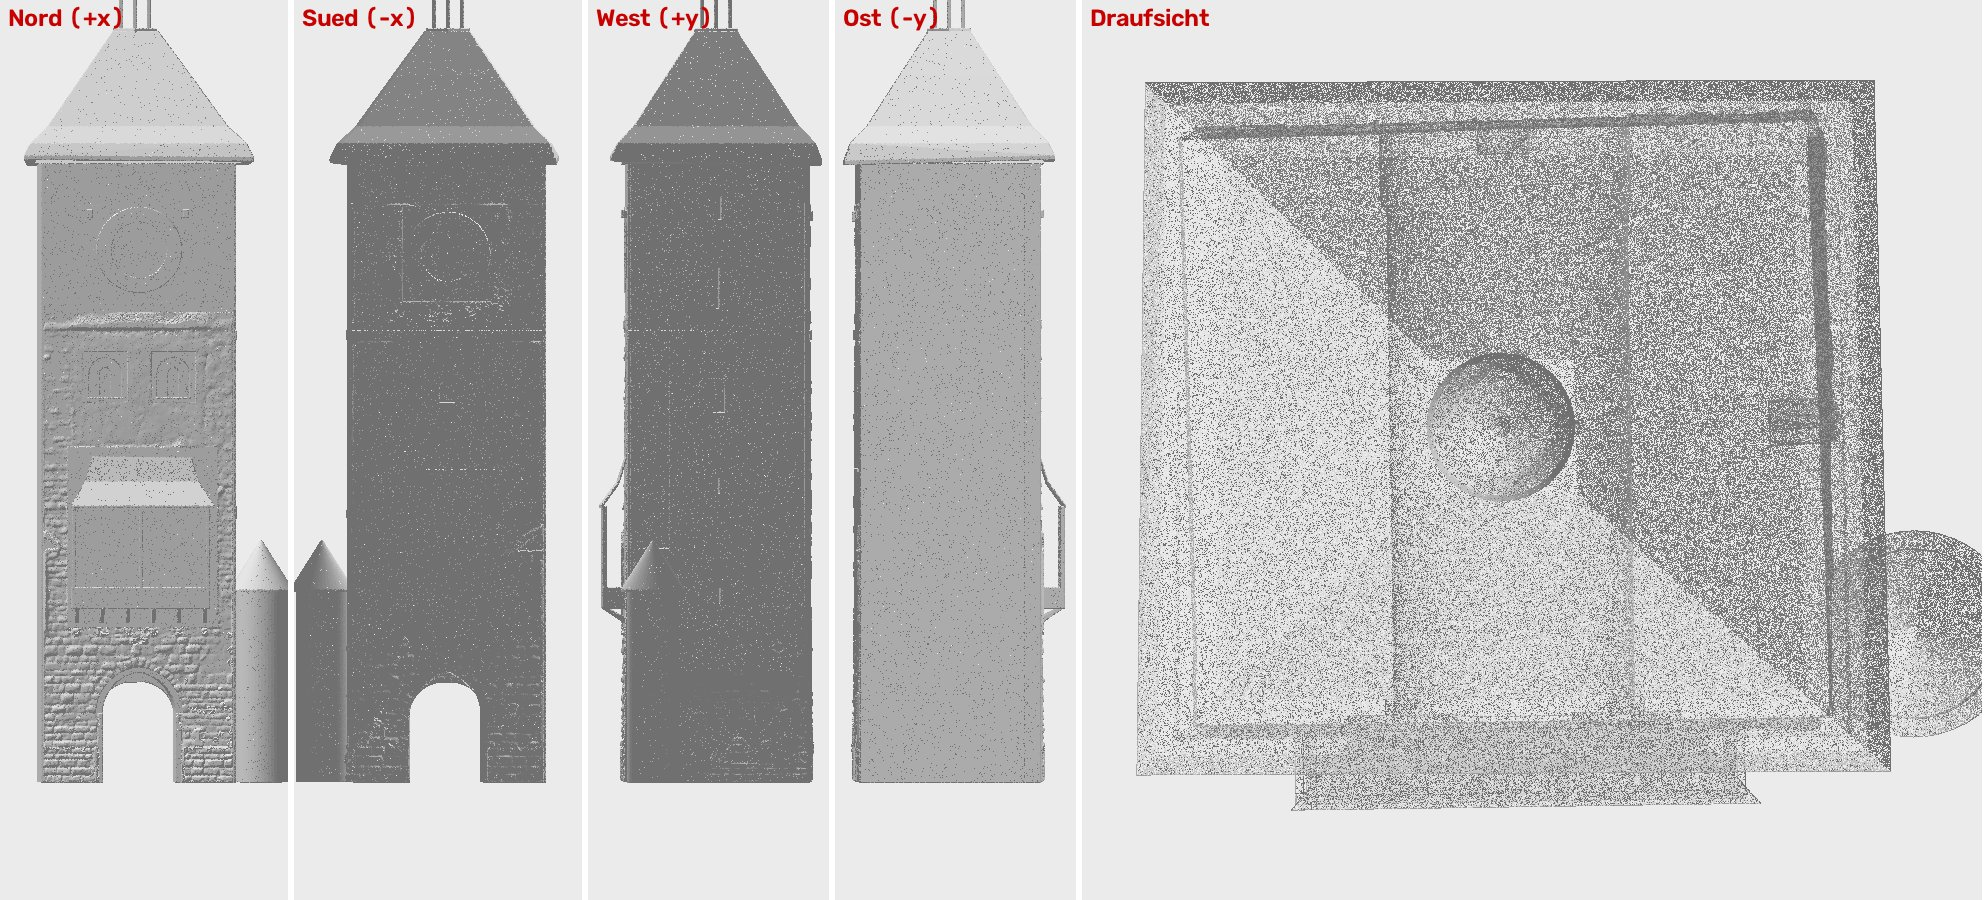
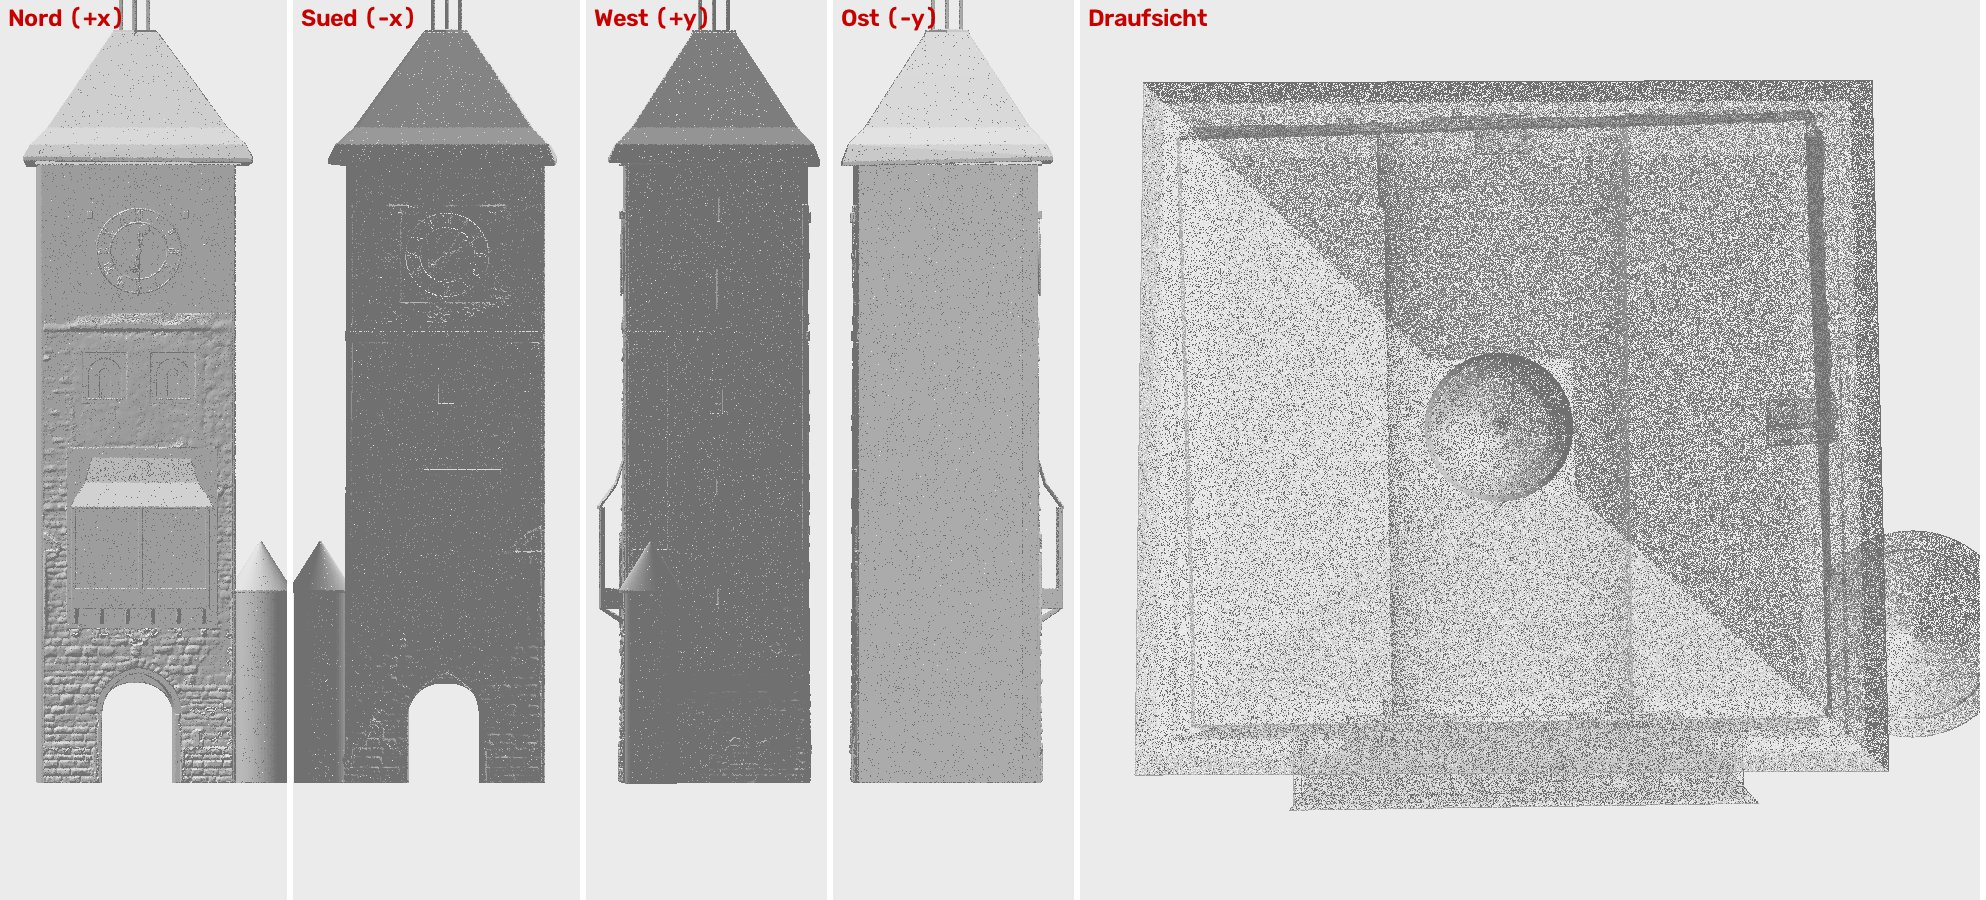
schwab_v3: Uhren Nord/Sued mit Wulsten, roemischen Ziffern und Zeigern (bauteile.Wand.zifferblatt); modell_neben_foto mit Dreiecks-Raster
Claude-Session: https://claude.ai/code/session_01BMC5F7JqzthTsrTAV2gKLz

diff --git a/tools/bauteile.py b/tools/bauteile.py
@@ -50,6 +50,34 @@ class Wand:
         for t_ in teiler: zus = zus + K_(t_ - b / 2, t_ + b / 2, z0 - e, z1 + e, v0, v1)
         if kaempfer: zus = zus + K_(u0 - e, u1 + e, kaempfer - b / 2, kaempfer + b / 2, v0, v1)
         return K_(u0, u1, z0, z1, w - tiefe, w + 0.02), zus
+    def stab(self, p, q, b, w0, w1):
+        """Gerader Stab von p = (u, z) nach q = (u, z), Breite b, von w0 bis w1 vor der Wand (Zeiger, Ziffernstriche, Leisten)."""
+        p = np.array(p, float); q = np.array(q, float); d = q - p; d = d / np.linalg.norm(d); s = np.array([-d[1], d[0]]) * b / 2
+        return self.huelle([(c[0], c[1], w_) for c in (p + s, p - s, q + s, q - s) for w_ in (w0, w1)])
+    def zifferblatt(self, u, z, d_aussen, d_innen, zeit=(2, 5), k=1.0, w_ring=0.10, w_feld=0.06):
+        """Turmuhr-Details AUF einer vorhandenen Ringscheibe (Ring bis w_ring, Innenfeld bis w_feld vor der Wand): Wulst aussen und innen, 12 roemische Ziffern
+        (radial, Fuss zur Mitte, IIII statt IV wie an Turmuhren ueblich), Nabe, Stundenzeiger mit Sonne und Mondsichel am Gegenende, Minutenzeiger mit Pfeil.
+        Masse relativ zum Durchmesser (Ablesung Schwabentor Sued, entzerrtes Foto commons 127); k = Laengenfaktor fuer Tiefen/Breiten (Rohrahmen). Zeit = ANNAHME."""
+        ra, ri = d_aussen / 2, d_innen / 2; sr = 1.0 if self.t @ np.array([-self.n[1], self.n[0]]) > 0 else -1.0; S = self.scheibe; e = 0.01 * k
+        def P(r, phi, dx=0.0, dy=0.0):                                     # Uhrwinkel phi im Uhrzeigersinn ab 12; dx entlang des Uhrzeigersinns, dy nach aussen
+            return (u + sr * (r * np.sin(phi) + dx * np.cos(phi) + dy * np.sin(phi)), z + r * np.cos(phi) - dx * np.sin(phi) + dy * np.cos(phi))
+        t = (S(u, z, d_aussen, w_ring - e, w_ring + 0.04 * k) - S(u, z, d_aussen - 0.14 * k, w_ring - 2 * e, w_ring + 0.1 * k)) + (S(u, z, d_innen + 0.13 * k, w_feld - e, w_ring + 0.04 * k) - S(u, z, d_innen, w_feld - 2 * e, w_ring + 0.1 * k))
+        rm = (ri + ra) / 2; h = 0.70 * (ra - ri) ; b = 0.075 * k; a_ = 0.13 * h / 0.63; w0, w1 = w_ring - e, w_ring + 0.03 * k
+        for n_, txt in enumerate(("I", "II", "III", "IIII", "V", "VI", "VII", "VIII", "IX", "X", "XI", "XII"), 1):
+            phi = np.radians(30.0 * n_); br = [0.11 * h / 0.63 if c == "I" else 2 * a_ + 0.06 * h for c in txt]; x = -sum(br) / 2
+            for c, bw in zip(txt, br):
+                xm = x + bw / 2; x += bw
+                if c == "I": t = t + self.stab(P(rm, phi, xm, -h / 2), P(rm, phi, xm, h / 2), b, w0, w1)
+                elif c == "V": t = t + self.stab(P(rm, phi, xm - a_, h / 2), P(rm, phi, xm, -h / 2), b, w0, w1) + self.stab(P(rm, phi, xm + a_, h / 2), P(rm, phi, xm, -h / 2), b * 0.6, w0, w1)
+                else: t = t + self.stab(P(rm, phi, xm - a_, h / 2), P(rm, phi, xm + a_, -h / 2), b, w0, w1) + self.stab(P(rm, phi, xm - a_, -h / 2), P(rm, phi, xm + a_, h / 2), b * 0.6, w0, w1)
+        ph = np.radians(30.0 * (zeit[0] % 12) + 0.5 * zeit[1]); pm = np.radians(6.0 * zeit[1]); v0, v1, v2 = w_feld - e, w_feld + 0.10 * k, w_feld + 0.16 * k
+        t = t + S(u, z, 0.30 * k, v0, v2 + 0.03 * k)                                                                            # Nabe traegt beide Zeiger
+        t = t + self.stab(P(0.74 * ri, ph + np.pi), P(0.80 * ri, ph), 0.07 * k, v1 - 0.03 * k, v1) + S(*P(0.80 * ri, ph), 0.36 * ri, v1 - 0.03 * k, v1 + 0.02 * k)      # Stundenzeiger + Sonne
+        mo = P(0.62 * ri, ph + np.pi); mi = P(0.62 * ri - 0.07 * ri, ph + np.pi, 0.05 * ri)
+        t = t + (S(*mo, 0.34 * ri, v1 - 0.03 * k, v1) - S(*mi, 0.28 * ri, v1 - 0.05 * k, v1 + 0.02 * k))                         # Mondsichel am Gegenende
+        t = t + self.stab(P(0.62 * ri, pm + np.pi), P(ra - 0.30 * (ra - ri), pm), 0.05 * k, v2 - 0.03 * k, v2)                   # Minutenzeiger bis in den Ziffernring
+        sp = ra - 0.30 * (ra - ri); t = t + self.huelle([(c[0], c[1], w_) for c in (P(sp + 0.22 * ri, pm), P(sp - 0.10 * ri, pm, 0.07 * ri), P(sp - 0.10 * ri, pm, -0.07 * ri)) for w_ in (v2 - 0.03 * k, v2)])
+        return t
     def halbraum_innen(self, koerper):
         """Koerper an der Wandebene abschneiden (alles VOR der Ebene faellt weg)."""
         return koerper.trim_by_plane((-self.n[0], -self.n[1], 0.0), float(-(self.n @ self.a)))

diff --git a/modelle/schwab_v3_gen.py b/modelle/schwab_v3_gen.py
@@ -133,6 +133,8 @@ if obj.get("lod2", {}).get("id"):                    # Standard: LoD2-Grundriss 
     U_UM, U_ZM, U_D, U_DI = 6.14, 33.49, 5.36, 3.52
     ring = M.cylinder(0.10 + 0.05, U_D / 2, U_D / 2, 64) - M.cylinder(0.3, U_DI / 2, U_DI / 2, 64).translate((0, 0, 0.11))     # Ring 10 cm, Innenfeld 6 cm vor der Wand: ANNAHME
     rumpf = rumpf + ring.translate((U_UM, U_ZM, -0.05)).transform(M_w)
+    from bauteile import Wand as _Wand
+    rumpf = rumpf + _Wand(ca, cb, aussen=ca + 5.0 * nn).zifferblatt(U_UM, U_ZM, U_D, U_DI, zeit=(12, 30), k=1.0 / 0.933)      # 15.11. abends (Nutzer: "Uhr noch nicht richtig"): Wulste, Ziffern, Zeiger; Zeit wie Foto 113029 (ANNAHME)
     for ub in (3.05, 9.10): rumpf = rumpf + kasten(ub - 0.15, ub + 0.15, 35.55, 36.0, -0.05, 0.25)            # Balkenkoepfe: Lage aus dem entzerrten Foto 113029, Groesse ANNAHME
     beleg("wand", "Uhr Nord (Zifferblatt 5,36 m, Innenfeld 3,52 m)", "foto_mass.py auf der Wandebene, Fotos 113029 und 113205", durchmesser=U_D, mitte_u=U_UM, mitte_z=U_ZM,
           hinweis="ANNAHME: Ring 10 cm / Innenfeld 6 cm vor der Wand; Ziffern, Zeiger, Sonne/Mond nicht modelliert; 2 Balkenkoepfe nach Augenschein")
@@ -190,6 +192,7 @@ if obj.get("lod2", {}).get("id"):                    # Standard: LoD2-Grundriss 
     koerper = koerper - WS.prisma(b_spitz(4.49 / 2, 3.86, 5.85), u=T_U, w0=-1.3, w1=0.6)
     koerper = koerper - WS.prisma(b_rund(0.92, 22.26, 23.66), u=5.745, w0=-0.45, w1=0.6)        # Fenster: Tiefe ANNAHME 0,45 m; Steingewaende 2,02 m breit ist buendig (Farbe)
     koerper = koerper + WS.scheibe(5.71, 30.97, 4.95, -0.05, 0.10) - WS.scheibe(5.71, 30.97, 3.16, 0.06, 0.4)   # Uhr: Ring 10 cm, Innenfeld 6 cm vor der Wand (ANNAHME wie Nord)
+    koerper = koerper + WS.zifferblatt(5.71, 30.97, 4.95, 3.16, zeit=(2, 5))                     # Wulste, 12 roemische Ziffern, Zeiger mit Sonne/Mond (Ablesung entzerrtes Foto commons 127; Zeit und Relieftiefen ANNAHME)
     for ub in (8.52, 2.97): koerper = koerper + WS.kasten(ub - 0.15, ub + 0.15, 32.95, 33.5, -0.05, 0.25)       # Balkenkoepfe: Lage aus dem entzerrten Foto 127, Groesse ANNAHME
     koerper = koerper + WS.kasten(0.0, WS.laenge, 26.0, 26.53, -0.05, 0.10)                      # Gesims: Ausladung ANNAHME 10 cm
     koerper = koerper + WS.kasten(2.57, 7.0, 18.22, 18.38, -0.05, 0.15)                          # Verdachung ueber der Inschrift (Georgsbild darunter ist flach): Staerke/Ausladung ANNAHME

diff --git a/tools/modell_neben_foto.py b/tools/modell_neben_foto.py
@@ -14,13 +14,11 @@ K = json.load(open(os.path.join(od, "messprotokoll", "K-" + foto + ".json")))["k
 im = cv2.imread((glob.glob(os.path.join(root, obj["fotos_dir"], foto + ".*")) or glob.glob(os.path.join(root, obj["fotos_dir"], foto + "_*")))[0]); H, W = im.shape[:2]
 k1 = float(K.get("k1") or 0.0)
 if k1: im = cv2.undistort(im, np.array([[f, 0, cx], [0, f, cy], [0, 0, 1.0]]), np.array([k1, 0, 0, 0.0]))
-P = []; N = []
-for s in stls:
-    m = trimesh.load(s); p, fi = trimesh.sample.sample_surface(m, 6000000); P.append(p * 87.0 / 1000.0); N.append(m.face_normals[fi])
-P = np.vstack(P); N = np.vstack(N)
 x0, y0, x1, y1 = [int(v) for v in a[a.index("--box") + 1:a.index("--box") + 5]] if "--box" in a else (0, 0, W, H)
-q = 3                                                                # Punkt-Renderer: mit 1/3 Aufloesung rechnen, sonst Loecher zwischen den Abtastpunkten
-li = R.T @ np.array([-0.45, -0.75, -1.0]); li = li / np.linalg.norm(li)      # Licht von der Kamera her, schraeg von links oben (festes Weltlicht liess abgewandte Fassaden schwarz)
-r = rk.schattiert(P, N, R, t, f / q, cx / q, cy / q, W // q, H // q, licht=tuple(li))[0]; r = cv2.cvtColor(cv2.resize(np.asarray(r).astype(np.uint8), (W, H), interpolation=cv2.INTER_LINEAR), cv2.COLOR_GRAY2BGR)
+ms = [trimesh.load(s_) for s_ in stls]; mm = trimesh.util.concatenate(ms) if len(ms) > 1 else ms[0]; mm.apply_scale(87.0 / 1000.0)
+res = rk.dreiecke_rastern(mm, R, t, f, cx - x0, cy - y0, x1 - x0, y1 - y0); fid = np.asarray(res[1]); tr = fid >= 0          # Dreiecks-Raster (GPU) nur im Ausschnitt - der Punkt-Renderer rauschte zu stark fuer Steine/Details
+li = R.T @ np.array([-0.45, -0.75, -1.0]); li = li / np.linalg.norm(li)      # Licht von der Kamera her, schraeg von links oben
+r = np.full((y1 - y0, x1 - x0), 235, np.uint8); r[tr] = (60 + 190 * np.clip(mm.face_normals[fid[tr]] @ li, 0, 1)).astype(np.uint8); r = cv2.cvtColor(r, cv2.COLOR_GRAY2BGR)
+im = im[y0:y1, x0:x1]; x0 = y0 = 0; y1, x1 = r.shape[:2]
 o = np.hstack([im[y0:y1, x0:x1], r[y0:y1, x0:x1].astype(np.uint8)]); B = int(a[a.index("--breite") + 1]) if "--breite" in a else 900
 s = 2 * B / o.shape[1]; cv2.imwrite(a[3], cv2.resize(o, None, fx=s, fy=s, interpolation=cv2.INTER_AREA)); print("->", a[3])
